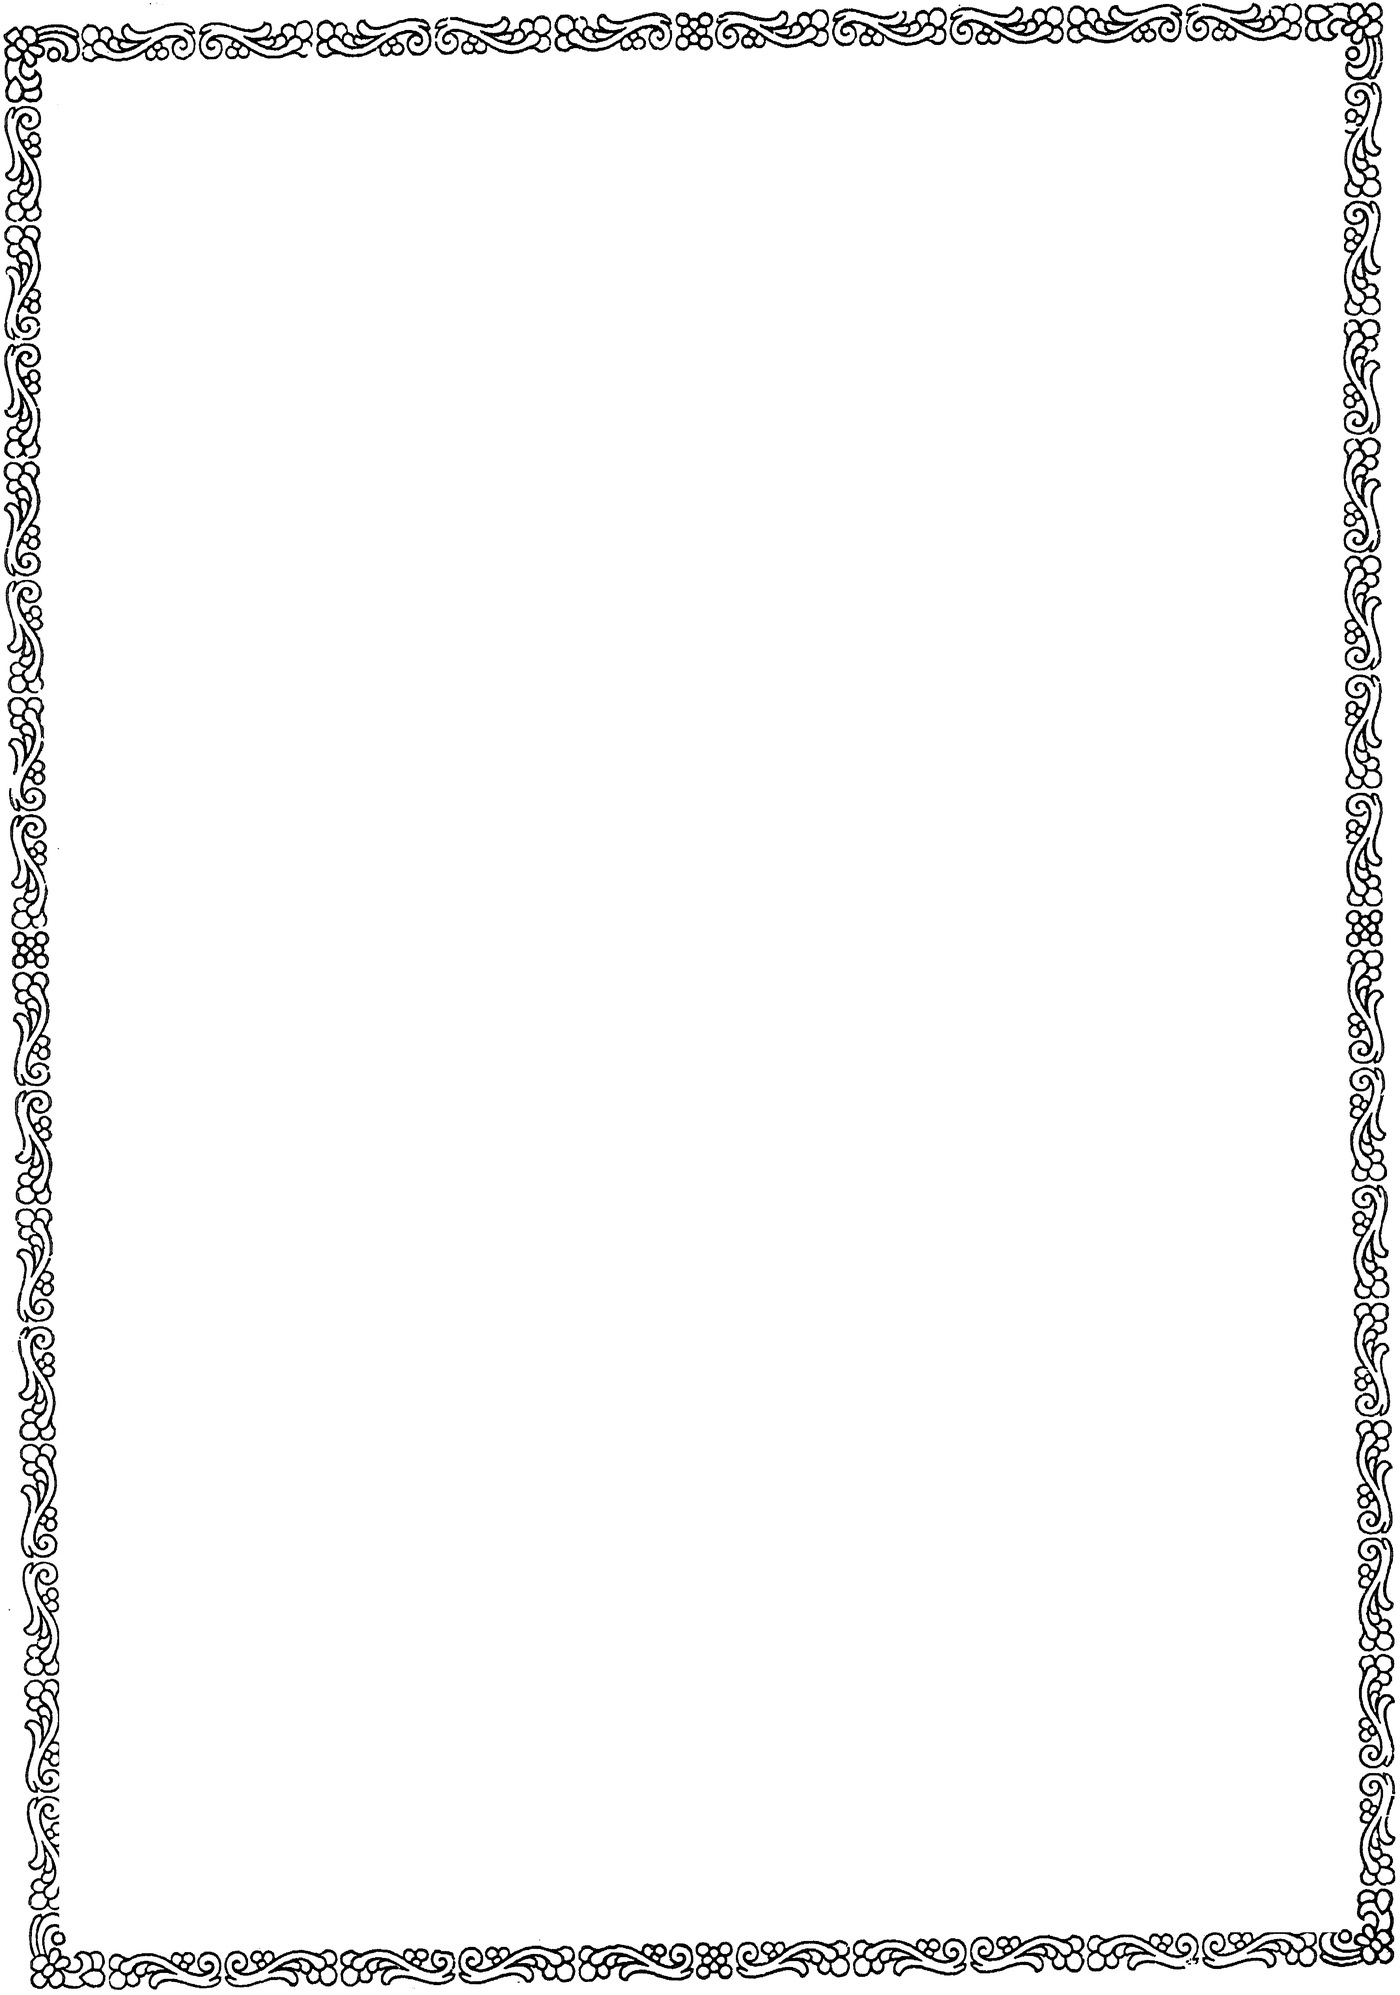
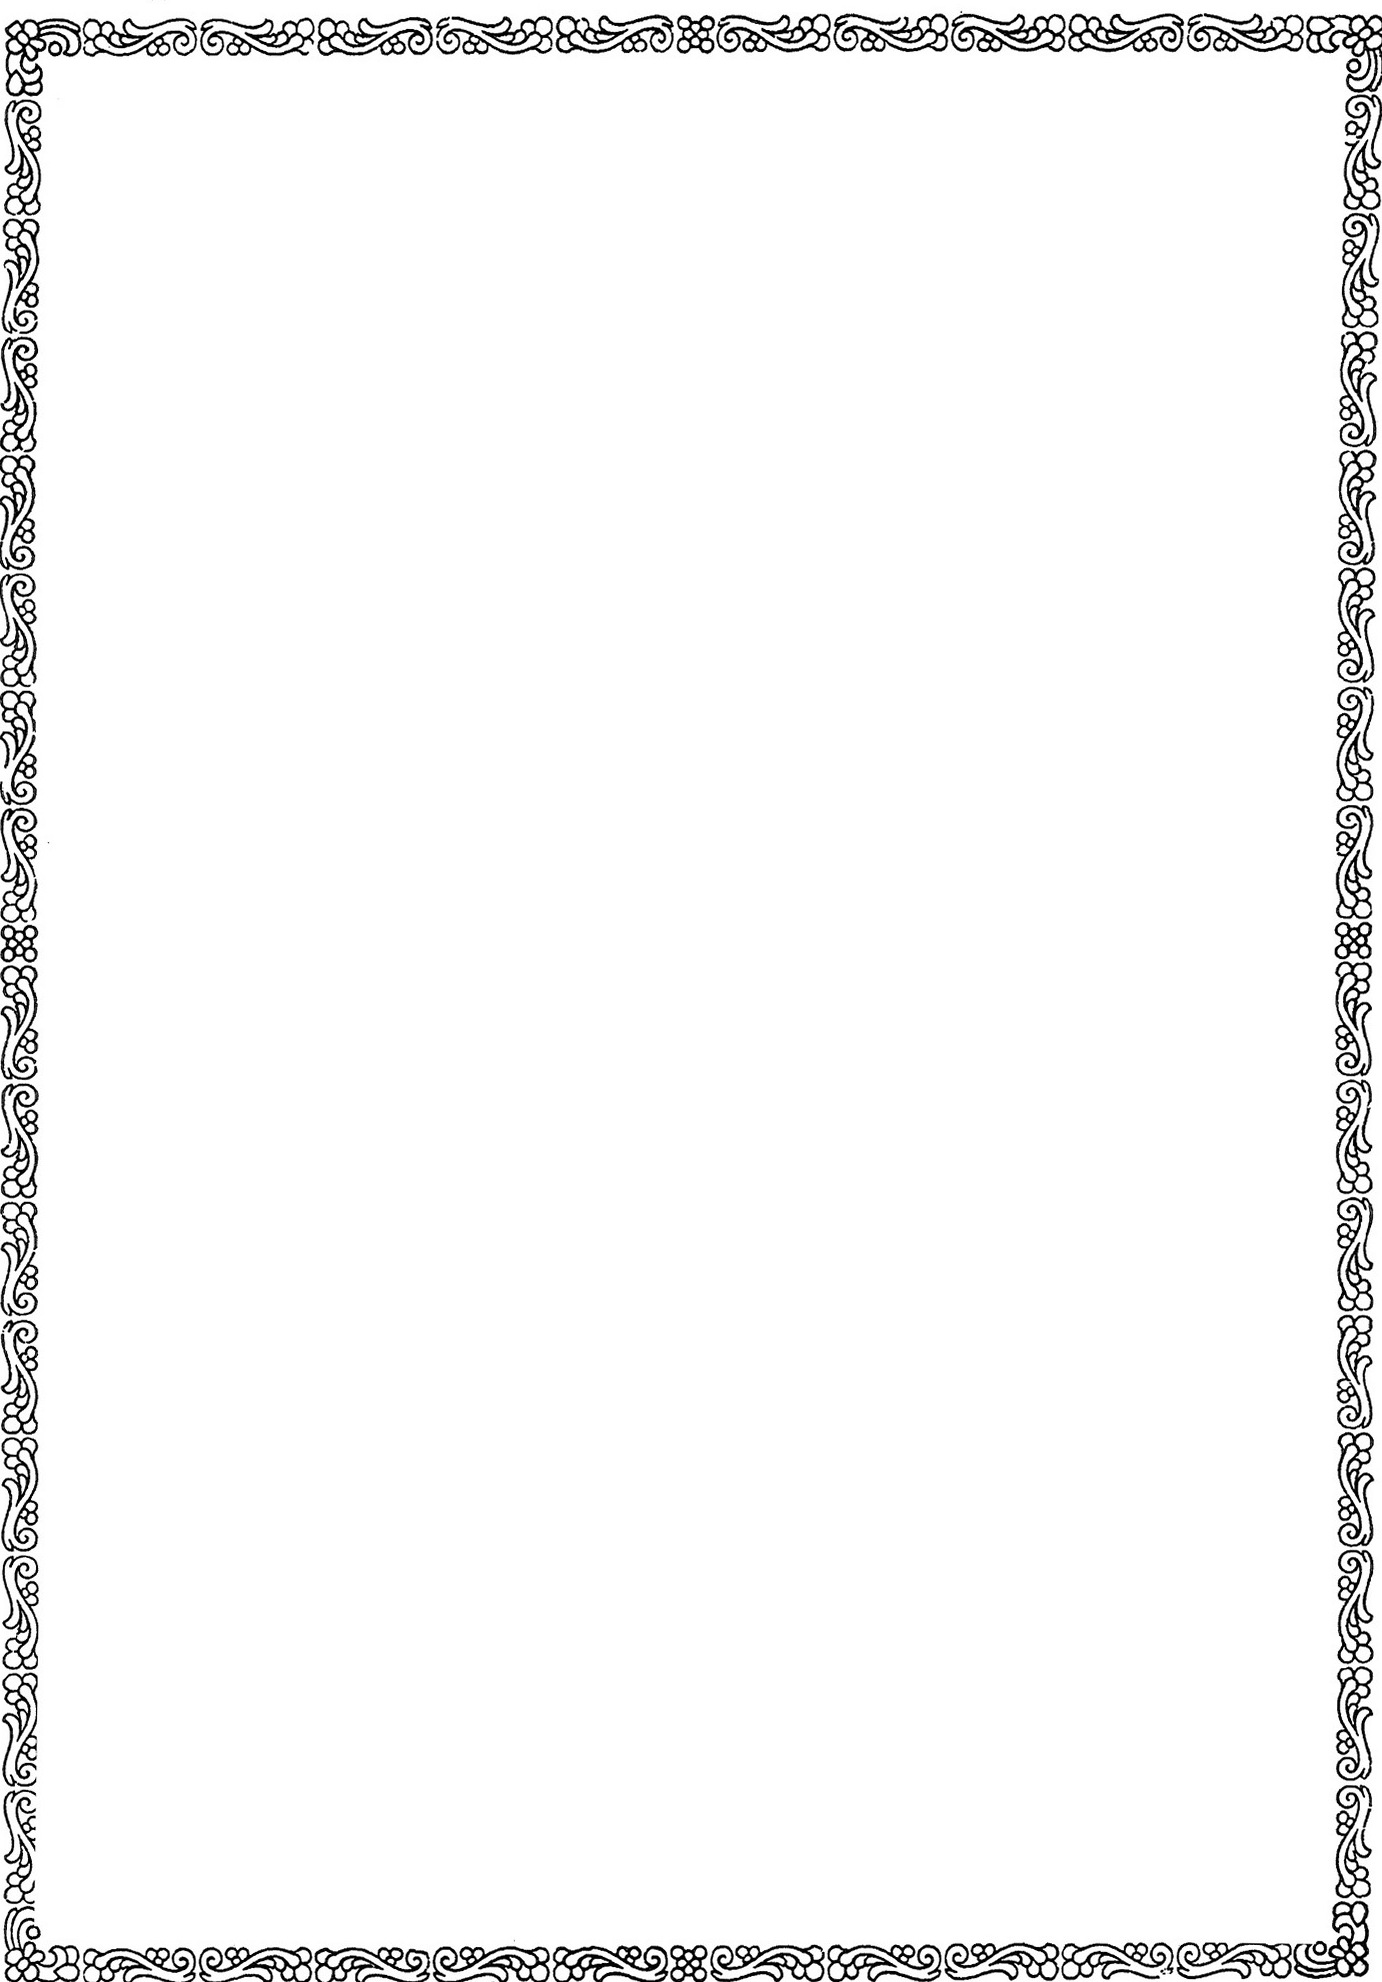
Front pages: imprint page in the typeset-title layout inside the plate border, no Claude reference; frame deskewed
Claude-Session: https://claude.ai/code/session_01CtcBQSYMeFuJNsHqhzCpti

Changed region(s): [[0.0, 0.0, 1.0, 1.0]]

diff --git a/publish/frontmatter/pages/02_imprint.html b/publish/frontmatter/pages/02_imprint.html
@@ -1,3 +1,17 @@
-<section class="fm fm-plain mid" id="fm-imprint" data-fm="imprint">
- <div class="ph tall">[Imprint page — Volume {{vol}}<br>Publisher: {{release.publisher}}<br>ISBN: {{release.isbn}}<br>Edition and printing: {{release.edition_and_printing}}<br>Rights: {{release.rights_statement}}]</div>
+<section class="fm fm-plain" id="fm-imprint" data-fm="imprint">
+ <div class="tkframe">
+  <img src="{{fm_assets}}/thanks_frame_vol1.jpg" alt="">
+  <div class="tktext imprint">
+   <div class="i-inv">॥ श्री महागणाधिपतये नमः ॥</div>
+   <div class="i-title">Ṛgveda-saṃhitā</div>
+   <div class="i-sub">with the Bhāṣya of Sāyaṇācārya<br>and the Kannada Commentary of H. P. Venkata Rao</div>
+   <div class="orn">❖</div>
+   <div class="i-vol">Volume {{vol}}</div>
+   <div class="i-sub">{{range_line}}<br>{{adhyaya_line}}</div>
+   <div class="orn">❖</div>
+   <div class="i-by">English Translation by<br><span class="i-name">Bhargavi Upadhya</span></div>
+   <div class="i-src">Based on the Kannada edition of Asthāna Mahāvidvān H. P. Venkata Rao, Editor<br>{{imprint}}</div>
+   <div class="i-rel">© 2026 Bhargavi Upadhya. All rights reserved.<br>Publisher: {{release.publisher}} · ISBN: {{release.isbn}}<br>Edition and printing: {{release.edition_and_printing}}<br>{{release.rights_statement}}</div>
+  </div>
+ </div>
 </section>

diff --git a/publish/frontmatter/fm.css b/publish/frontmatter/fm.css
@@ -42,3 +42,14 @@
 .tkframe img { display: block; width: 5.1in; height: auto; }
 .tkframe .tktext { position: absolute; left: 11%; right: 11%; top: 9%; bottom: 9%; text-align: center; }
 .tkframe .tktext h2 { margin: .6in 0 .3in; }
+/* Imprint page (page 02): the layout of the typeset title page the builders made (user's pic-trans.pdf), inside the plate border of the thank-you page;
+   no reference to how the file was made (user, Nov 28 2026). */
+.tkframe .tktext.imprint { top: 12%; bottom: 6%; font-size: 9pt; line-height: 1.45; }
+.imprint .i-inv { font-size: 9pt; margin-bottom: .32in; }
+.imprint .i-title { font-size: 20pt; letter-spacing: .06em; margin-bottom: .1in; }
+.imprint .i-sub { font-size: 9.5pt; font-style: italic; line-height: 1.5; }
+.imprint .i-vol { font-size: 12pt; letter-spacing: .14em; text-transform: uppercase; margin: .1in 0 .08in; }
+.imprint .i-by { margin-top: .05in; }
+.imprint .i-name { font-size: 12.5pt; letter-spacing: .06em; }
+.imprint .i-src { font-size: 8pt; line-height: 1.45; margin-top: .22in; }
+.imprint .i-rel { margin-top: .3in; font-size: 7.6pt; color: #333; line-height: 1.5; }

diff --git a/publish/frontmatter/preview.py b/publish/frontmatter/preview.py
@@ -9,7 +9,7 @@ for p in order['pages']:
     if not p['enabled'] or not p['file']: continue
     h = (HERE / p['file']).read_text(encoding='utf8')
     h = h.replace('class="fm ', f'class="fm {"recto " if p["start"]=="recto" else "verso " if p["start"]=="verso" else ""}', 1)
-    body.append(h.replace('{{assets}}', ASSETS).replace('{{fm_assets}}', (HERE / 'assets').as_uri()).replace('{{vol}}', '17').replace('{{range_line}}','Maṇḍala 3 · Sūktas 40–62 and Maṇḍala 4 · Sūktas 1–18').replace('{{adhyaya_line}}','Third, Fourth and Fifth Adhyāyas of the Third Aṣṭaka').replace('{{press}}','Sree Vinayak Printing Works, Mysore'))
+    body.append(h.replace('{{assets}}', ASSETS).replace('{{fm_assets}}', (HERE / 'assets').as_uri()).replace('{{vol}}', '17').replace('{{range_line}}','Maṇḍala 3 · Sūktas 40–62 and Maṇḍala 4 · Sūktas 1–18').replace('{{adhyaya_line}}','Third, Fourth and Fifth Adhyāyas of the Third Aṣṭaka').replace('{{imprint}}','Śrī Jayacāmarājendra Vedaratna-mālā<br>Sree Vinayak Printing Works, Mysore, 1952').replace('{{press}}','Sree Vinayak Printing Works, Mysore'))
 body = [b.replace('<div class="fm-slot"', '<p>Sample text of the slot, for the preview only.</p><div class="fm-slot"') for b in body]   # a slot has a body, so the footer can be checked
 if '--body' in sys.argv:    # a stand-in for the text, to see the footer under the front pages and arabic 1 on its first page
     body.append('<div class="fm-bodystart" data-orig=""></div><h3 class="pg" data-p="1">1</h3><h1>Text of the book</h1><p>First page of the text.</p>')

diff --git a/docs/prompts/FRONT_PAGES_01_06_EMBED_PROMPT.md b/docs/prompts/FRONT_PAGES_01_06_EMBED_PROMPT.md
@@ -1,6 +1,6 @@
 # Prompt for the session that embeds the common front pages 01–06 into the volume PDFs
 
-Pages 01–06 are finished as far as the user has decided (title, imprint, king, guru, present-day, thank-you). Your job is only to make the embedding script **use them**; you do not redesign them. The **texts of the imprint, present-day and thank-you pages are not decided yet**: the user will supply them later, so the script must take them from the page files (and `publish/release.json`), never hard-code them.
+Pages 01–06 are finished as far as the user has decided (title, imprint, king, guru, present-day, thank-you). Your job is only to make the embedding script **use them**; you do not redesign them. The **texts of the present-day and thank-you pages (and any change to the imprint page) are not decided yet**: the user will supply them later, so the script must take them from the page files (and `publish/release.json`), never hard-code them.
 
 ## Where things are
 Branch `claude/clever-lamport-qr34vh` (merge `origin/main` and that branch if the last commits `e71a1017`, `6495a061` are not yet in `main`). Folder `publish/frontmatter/`: `order.json` (the one list: order, `enabled`, `start` recto/verso, `numbering`, master switch `"embed": false`), `pages/01_title.html` … `06_thank_you.html`, `fm.css`, `assets/`, `preview.py` (review aid only), `README.md` (the contract; read it first).
@@ -9,7 +9,7 @@ Branch `claude/clever-lamport-qr34vh` (merge `origin/main` and that branch if th
 | page | file | content | per volume? |
 |---|---|---|---|
 | 01 title | `01_title.html` | Vol 1 title-page frame (`assets/title_frame_vol1.jpg`, centre and press plaque cleared) + live text: `{{vol}}`, `{{range_line}}`, `{{adhyaya_line}}` in the centre, `{{press}}` in the plaque | yes |
-| 02 imprint | `02_imprint.html` | **placeholder** listing `{{release.publisher}}`, `.isbn`, `.edition_and_printing`, `.rights_statement`; the final design/text comes from the user | values from `publish/release.json` (empty now: print its "to be supplied" placeholder) |
+| 02 imprint | `02_imprint.html` | the layout of the typeset title page the builders made (invocation, title, volume and scope `{{range_line}}`/`{{adhyaya_line}}`, translator, source edition `{{imprint}}`, © 2026 line, release lines) inside the plate border (`assets/thanks_frame_vol1.jpg`); **no reference to Claude or to how the file was made**; texts may still be edited by the user | yes (`{{vol}}`, scope, imprint) + `publish/release.json` (empty now: print its "to be supplied" placeholder) |
 | 03 king | `03_king_photo.html` | `assets/king_vol1.jpg` (user's Vol 1 scan) + English caption | no |
 | 04 guru | `04_guru_photo.html` | `assets/guru_vol1.jpg` + English caption | no |
 | 05 present day | `05_present_day.html` | two placeholder frames on one page (photos and captions to come) | no |

diff --git a/publish/frontmatter/README.md b/publish/frontmatter/README.md
@@ -36,3 +36,6 @@ Both are taken from the Vol 1 front matter, from the user's high-resolution scan
 
 ## Title page (page 01, from the user's Vol 1 scan `pic-front.pdf`, Nov 28 2026)
 `assets/title_frame_vol1.jpg` is the ornamental frame of the Vol 1 title page (the scan is 1664×2193, 1-bit, the same as `publish/assets/cover_vol1.jpg`) with its centre text and the press plaque cleared. Page 01 sets, per volume: `{{vol}}`, `{{range_line}}`, `{{adhyaya_line}}` in the centre and `{{press}}` in the plaque (all from `volN/pubcfg.json`; Vol 15's pubcfg has no `press`, volumes without a pubcfg have none of them). Tokens added: `{{press}}`, `{{fm_assets}}`. The frame is 5.1 in wide (trim 6.5 in minus margins .7 in); the text sizes are in pt for that width.
+
+## Imprint page (page 02, Nov 28 2026)
+The layout of the typeset title page the builders made (user's `pic-trans.pdf`), inside the same plate border as the thank-you page (`assets/thanks_frame_vol1.jpg`, deskewed 0.8° and trimmed). The line "prepared with the assistance of Claude, an AI model by Anthropic" is removed (user). Tokens: `{{vol}}`, `{{range_line}}`, `{{adhyaya_line}}`, `{{imprint}}`, `{{release.*}}`.
